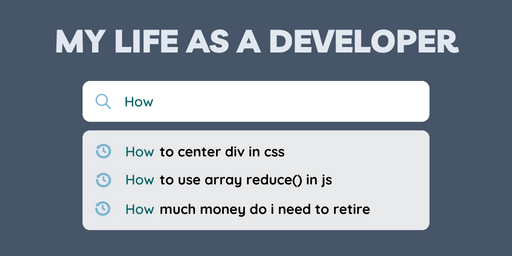
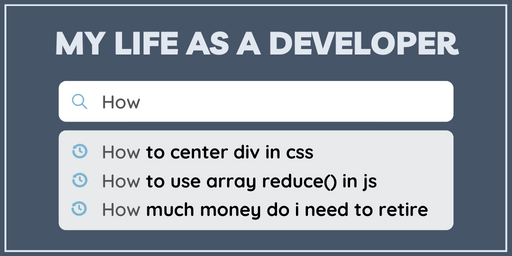
update pic

diff --git a/README.md b/README.md
@@ -1,5 +1,5 @@
 <p align="center">
-  <img alt="my quote" src="./pob_intro3.png" width="512" />
+  <img alt="my quote" src="./pob_intro3.png" width="450" />
 </p>
 
 ## Hi, I'm Pob
